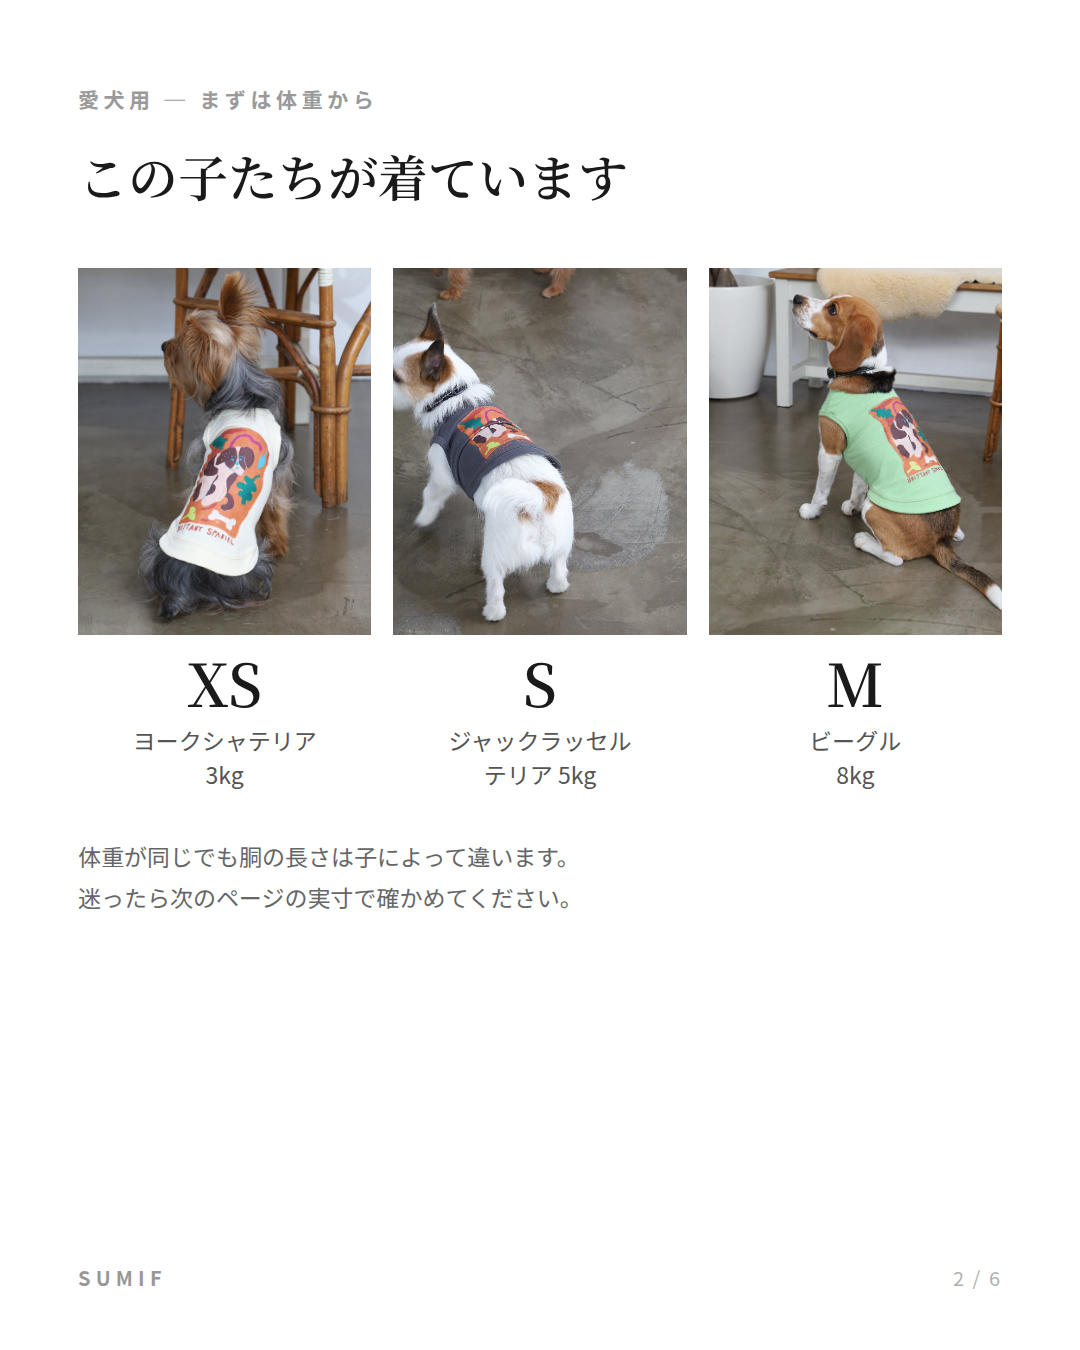
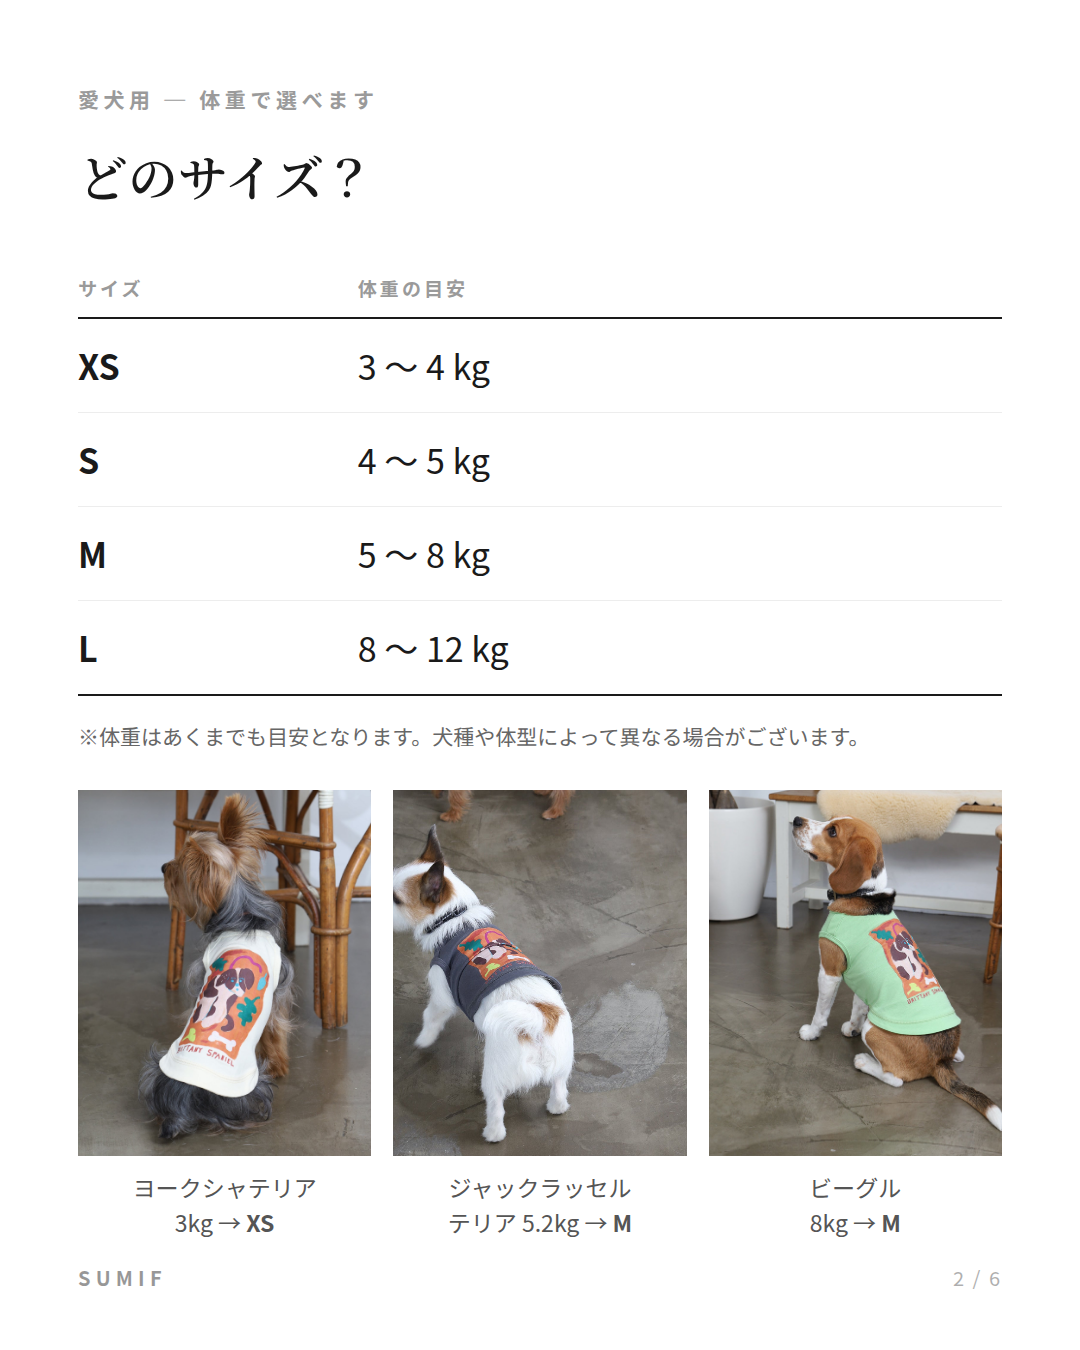
公式カタログと照合し、愛犬用9商品に公式の目安体重を反映
- カタログに Dog Wear 目安体重（XS 3-4 / S 4-5 / M 5-8 / L 8-12kg）があり、
  5kgはS/Mの境界のため「シャツの5kg→Mは誤り」という前回の推論は誤りだった。訂正
- 犬種1頭ずつの例示では S と L に案内が付かない穴があったため、
  公式レンジを9商品すべてに記載。着用例は境界値を避けた体重のみ採用
- サイズガイド画像の2枚目も公式レンジの表に差し替え
- スウェットのL胴周り48cmはカタログにも記載があり転記ミスではないことを確認
- 犬用シャツ3点の素材表記がカタログ(Cotton100%)と商品ページ(ポリエステル100%)で
  食い違う問題を発見。素材表示のため変更は保留
- 比較価格がカタログ上代とほぼ一致することを確認（二重価格の根拠）

Claude-Session: https://claude.ai/code/session_015kw7YALnaRAD4UJPNcrGdf

diff --git a/docs/data/instagram-2026-10/slides.html b/docs/data/instagram-2026-10/slides.html
@@ -38,17 +38,26 @@
 </div>
 
 <div class="s" id="s2">
-  <div class="kicker">愛犬用 ─ まずは体重から</div>
-  <h2>この子たちが着ています</h2>
-  <div class="row" style="margin-top:46px">
+  <div class="kicker">愛犬用 ─ 体重で選べます</div>
+  <h2>どのサイズ？</h2>
+  <table style="font-size:34px;margin-top:30px">
+    <thead><tr><th>サイズ</th><th>体重の目安</th></tr></thead>
+    <tbody>
+      <tr><td>XS</td><td>3 〜 4 kg</td></tr>
+      <tr><td>S</td><td>4 〜 5 kg</td></tr>
+      <tr><td>M</td><td>5 〜 8 kg</td></tr>
+      <tr><td>L</td><td>8 〜 12 kg</td></tr>
+    </tbody>
+  </table>
+  <p class="note" style="font-size:21px;margin-top:22px">※体重はあくまでも目安となります。犬種や体型によって異なる場合がございます。</p>
+  <div class="row" style="margin-top:34px">
     <div class="card"><img src="dog_xs.jpg" alt="">
-      <div class="sz">XS</div><div class="wt">ヨークシャテリア<br>3kg</div></div>
+      <div class="wt" style="margin-top:14px">ヨークシャテリア<br>3kg → <b>XS</b></div></div>
     <div class="card"><img src="dog_s.jpg" alt="">
-      <div class="sz">S</div><div class="wt">ジャックラッセル<br>テリア 5kg</div></div>
+      <div class="wt" style="margin-top:14px">ジャックラッセル<br>テリア 5.2kg → <b>M</b></div></div>
     <div class="card"><img src="dog_m.jpg" alt="">
-      <div class="sz">M</div><div class="wt">ビーグル<br>8kg</div></div>
+      <div class="wt" style="margin-top:14px">ビーグル<br>8kg → <b>M</b></div></div>
   </div>
-  <p class="note" style="margin-top:44px">体重が同じでも胴の長さは子によって違います。<br>迷ったら次のページの実寸で確かめてください。</p>
   <div class="brand">SUMIF</div><div class="pg">2 / 6</div>
 </div>
 
@@ -62,7 +71,7 @@
     <tr><td>M</td><td>21</td><td>30</td><td>47</td></tr>
     <tr><td>L</td><td>24</td><td>35</td><td>57</td></tr>
   </tbody></table>
-  <p class="note">首の付け根のいちばん太いところ、前足の付け根から<br>しっぽの付け根まで、胴のいちばん太いところを測ります。<br><br>タンクトップは British Dogs / Brittany Spaniel / RinTinTin すべて同じ寸法です。</p>
+  <p class="note">首の付け根のいちばん太いところ、前足の付け根から<br>しっぽの付け根まで、胴のいちばん太いところを測ります。<br><br>タンクトップ4シリーズはすべて同じ寸法です。<br>シャツとスウェットは寸法が違うので、各商品ページをご覧ください。</p>
   <div class="brand">SUMIF</div><div class="pg">3 / 6</div>
 </div>
 

diff --git a/docs/dog-size-master-2026-10-03.md b/docs/dog-size-master-2026-10-03.md
@@ -1,21 +1,69 @@
-# 愛犬用 サイズ目安・寸法 一覧（2026-10-03）
+# 愛犬用 サイズ目安・寸法 一覧（2026-10-03・カタログ照合済み）
 
-愛犬用9商品すべての「体重の目安」と「寸法表」を商品ページから取り出して突き合わせたもの。
+公式カタログ2冊（`22AW` / `22SS`）と商品ページを突き合わせた結果。
 在庫は **Open Logi 倉庫のみ**。
 
-## 1. 愛犬用は3タイプしかない
+## ⚠ 先に訂正
 
-| タイプ | 商品数 | 素材 | 寸法表の項目 |
-|---|---|---|---|
-| **タンクトップ** | 4（British Dogs / Brittany Spaniel / RinTinTin / Flanders） | 綿100%（伸びる） | 首回り・着丈・胴周り |
-| **シャツ** | 3（British Dogs / Flanders / Various dogs） | ポリエステル100%＋マジックテープ（伸びない） | 首回り・着丈・胴周り |
-| **スウェット** | 2（Playing Dog / Two of a kind） | 綿100% | 着丈・胴周り（首回りなし） |
+**「シャツの 5kg → M はおそらく誤り」と報告したが、これは間違いだった。**
 
-**同じタイプの中では、寸法表は全商品まったく同一。** つまり覚えるべき表は3つだけ。
+カタログに **Dog Wear 目安体重** のページ（22AW p10）があり、サイズごとの体重レンジが
+公式に定義されていた。
 
-## 2. 寸法表（タイプ別・単位cm）
+| サイズ | 公式の目安体重 |
+|---|---|
+| XS | **3〜4 kg** |
+| S | **4〜5 kg** |
+| M | **5〜8 kg** |
+| L | **8〜12 kg** |
 
-### タンクトップ（4商品共通）
+> ※体重はあくまでも目安となります。犬種や体型によって異なる場合がございます。
+
+**5kg は S（4〜5）と M（5〜8）の境界**なので、タンクトップの「5kg→S」もシャツの「5kg→M」も
+どちらも仕様の範囲内だった。寸法表から「ずれている」と推論したのは誤りで、
+実際には体重レンジを見れば両方成立する。
+
+画像は `docs/data/catalog-2026/dogwear-weight-guide.png`。
+
+### 本当の問題はそこではなかった
+
+犬種を1頭ずつ例示する書き方では、**どの体重の子にもSとLが割り当てられない**ことがあった。
+公式の体重レンジを載せれば、この穴は構造的に消える。
+
+## 対応したこと（2026-10-03 実施）
+
+愛犬用 **9商品すべて**の説明文に、カタログの公式レンジを入れた。
+
+```
+サイズの目安（体重）
+XS 3〜4kg　／　S 4〜5kg　／　M 5〜8kg　／　L 8〜12kg
+着用例：ヨークシャテリア 3kg → XS　／　ブリュッセルグリフォン 4.8kg → S
+　　　　ジャックラッセルテリア 5.2kg → M　／　ボストンテリア 8.4kg → L
+※体重はあくまでも目安となります。犬種や体型によって異なる場合がございます。
+```
+
+着用例は**境界にかからない体重だけ**を選んである（5.0kg や 8.0kg のような境界値は使わない）。
+スウェット2点だけは XS の例を「ロングコートチワワ 3.3kg」にしてある（実際にその商品を着た写真があるため）。
+
+| 商品 | 変更前の目安 | 変更後 |
+|---|---|---|
+| British Dogs タンク | 3kg→XS / 5kg→S / 8kg→M | 公式レンジ＋着用例 |
+| Brittany Spaniel タンク | 同上 | 同上 |
+| RinTinTin タンク | 同上 | 同上 |
+| Flanders タンク | 同上 | 同上 |
+| British Dogs シャツ | 3kg→XS / 5kg→M / 8kg→M | 同上 |
+| Flanders シャツ | 3kg→XS / 5kg→M | 同上 |
+| Various dogs シャツ | 3kg→XS / 5kg→M / 8kg→M | 同上 |
+| Playing Dog スウェット | 3.3kg→XS / 5.2kg→M / 8.4kg→L | 同上 |
+| Two of a kind スウェット | 3.3kg→XS / 4.8kg→S / 5.2kg→M / 8.4kg→L | 同上 |
+
+サイズガイドの画像（投稿②）も2枚目を公式レンジの表に差し替えた。
+
+## 寸法表（カタログと商品ページは完全一致・単位cm）
+
+カタログの測り方は 22AW p10 の図に定義されている（**首回り・着丈・胴回り**）。
+
+### タンクトップ（4商品共通・Cotton100%）
 | サイズ | 首回り | 着丈 | 胴周り |
 |---|---:|---:|---:|
 | XS | 16 | 26.5 | 31 |
@@ -31,103 +79,72 @@
 | M | 25 | 32 | 47 |
 | L | 30 | 35 | 55 |
 
-### スウェット（2商品共通）
+### スウェット（2商品共通・Cotton100%・首回りの記載なし）
 | サイズ | 着丈 | 胴周り |
 |---|---:|---:|
 | XS | 27 | 25 |
 | S | 30 | 28 |
 | M | 33 | 31 |
-| L | 36 | **48** ← 不自然（下記） |
+| L | 36 | **48** |
 
-### 3タイプの胴周り比較
+## 残った確認事項
 
-| サイズ | タンク | シャツ | スウェット |
-|---|---:|---:|---:|
-| XS | 31 | 31 | 25 |
-| S | 37 | 39 | 28 |
-| M | 47 | 47 | 31 |
-| L | 57 | 55 | 48 |
+### ① スウェットのL、胴周り48cm ─ カタログにもそう書いてある
 
-- **タンクとシャツは、XSとMが完全一致**。S（+2）とL（−2）もほぼ同じ
-- **スウェットだけ桁が違う**（XS25〜M31）。M31 はタンクのXS31と同じで、
-  5.2kgの子向けとしては小さすぎる。測り方が違うか、誤記の可能性
+22AW p6（Playing Dog）と p8（Two of a kind）の両方に `36 / 48` と記載されている。
+**商品ページの転記ミスではない。** こちらの入力は正しい。
 
-## 3. 体重の目安 ─ 現状
+ただし着丈は 27→30→33→36 と3cm刻みで完全に規則的なのに、
+胴周りだけ 25→28→31→**48** と最後だけ17cm飛んでいる。
+**カタログ側の誤植の可能性は残る**（規則どおりなら34前後）。
 
-| 商品 | XS | S | M | L |
-|---|---|---|---|---|
-| British Dogs タンク | ヨークシャテリア 3kg | ジャックラッセル 5kg | ビーグル 8kg | **空欄** |
-| Brittany Spaniel タンク | 同上 | 同上 | 同上 | **空欄** |
-| RinTinTin タンク | 同上 | 同上 | 同上 | **空欄** |
-| Flanders タンク | 同上 | 同上 | 同上 | **空欄** |
-| British Dogs シャツ | ヨークシャテリア 3kg | **空欄** | ジャックラッセル 5kg ／ ビーグル 8kg | **空欄** |
-| Flanders シャツ | ヨークシャテリア 3kg | **空欄** | ジャックラッセル 5kg | **空欄** |
-| Various dogs シャツ | ヨークシャテリア 3kg | **空欄** | ジャックラッセル 5kg ／ ビーグル 8kg | **空欄** |
-| Playing Dog スウェット | ロングコートチワワ 3.3kg | **空欄** | ジャックラッセル 5.2kg | ボストンテリア 8.4kg |
-| Two of a kind スウェット | ロングコートチワワ 3.3kg | ブリュッセルグリフォン 4.8kg | ジャックラッセル 5.2kg | ボストンテリア 8.4kg |
+Two of a kind の L は **在庫8点**（ホワイト3・ブラック5）あるので、
+現物を1枚測れば確定する。測るまでは数字を動かさない。
 
-## 4. 直すべきところ
+### ② 犬用シャツ3点の素材表記がカタログと食い違っている ★新規
 
-### ① シャツ3点「5kg → M」はおそらく誤り（→ S）
-
-タンクとシャツは **XS(31)とM(47)の胴周りが完全一致**しているのに、
-**Sの段だけ割り当てが1つずれている**。XSとMが一致するならSも一致するはず。
-
-「伸びない素材だから1サイズ上げている」という説明は成り立たない。
-それなら3kgの子も XS→S に上がるはずだが、3kgはXSのまま据え置かれている。
-**上がっているのがSの段だけ**なので、転記のずれと見るのが自然。
-
-→ **3商品とも 5kg → S に直す。**
-
-### ② Playing Dog スウェットに S の目安がない
-
-Two of a kind と**寸法表は完全同一**なのに、Playing Dog だけ S の行が抜けている。
-
-→ Two of a kind と同じ **4.8kg → S** を入れる（同じ寸法なので整合する）。
-
-### ③ スウェットの L、胴周り48cm
-
-XS25 → S28 → M31 と3cm刻みで来て、Lだけ48。17cmの飛びは不自然。
-**誤記の疑いがあるので、現物を測って確認してほしい。**
-3cm刻みなら34前後になるはず。
-
-### ④ 全タイプで L の目安が空欄
-
-タンクトップのL（胴周り57cm）は **在庫28点**あるのに、
-「何kgの子ならL」という案内がどこにもない。大きめの子の飼い主が選べない。
-
-## 5. 埋める優先順位（在庫順）
-
-| 埋める箇所 | 対象在庫 | なぜ優先か |
-|---|---:|---|
-| **シャツの S** | **30点** | British Dogs シャツはS8点が主力（M・Lは0）。いまSを誰にも勧めていない |
-| **スウェットの S** | **32点** | Playing Dog だけ案内がない |
-| **タンクトップの L** | **28点** | 大きめの子向けの案内が存在しない |
-| シャツの L | 0点 | 在庫切れなので不要 |
-
-## 6. 目安に使える犬 ─ 着用写真がある子
-
-**実際にその商品を着た写真がある犬種**なら、目安に書いても裏が取れる。
-
-| 犬種 | 写真がある商品 | 現在の目安での体重 |
+| 商品 | カタログの表記 | 商品ページの表記 |
 |---|---|---|
-| ヨークシャーテリア | タンク（BS・Flanders・RinTinTin）／シャツ（British Dogs・Flanders） | 3kg |
-| ジャックラッセルテリア | タンク（BS・British Dogs・Flanders）／シャツ（British Dogs） | 5kg・5.2kg |
-| ビーグル | タンク（BS・British Dogs・Flanders・RinTinTin）／シャツ（British Dogs） | 8kg |
-| ロングコートチワワ | スウェット（Two of a kind） | 3.3kg |
-| ボストンテリア | スウェット（Playing Dog・Two of a kind） | 8.4kg |
-| プードル | スウェット（Two of a kind） | **未記載** |
-| ブリュッセルグリフォン | 写真は未確認 | 4.8kg |
+| British Dogs Shirts For Dog | **Cotton100%**（22SS p4） | ポリエステル100% |
+| Flanders Shirts For Dog | **Cotton100%**（22SS p7） | ポリエステル100% |
+| Various dogs Shirts For Dog | **Cotton100%**（22AW p4） | ポリエステル100% |
 
-**プードルは写真があるのに目安に出ていない。**体重が分かれば追加できる。
-L の目安を足すなら、10kg前後の中型犬（柴犬・コーギーなど）の実測が要る。
+一方、**大人・子どものシャツはカタログも PE100%** で一致している
+（British Dogs Long Sleeve Shirts / Flanders Short Sleeve Shirts / Various dogs Shirts）。
+**犬用シャツだけが食い違う。**大人用の表記をコピーした可能性がある。
 
-## 7. 決めてほしいこと
+商品説明の本文にも「肌触りの良いポリエステル素材で着心地抜群。お洗濯もできシワにもなりにくく」
+と書いてあり、素材が綿なら**この一文ごと事実と違う**ことになる。
 
-1. シャツの 5kg → S に直してよいか（現物でジャックラッセルサイズの子にSを着せて確認できるとなお良い）
-2. Playing Dog に 4.8kg → S を足してよいか
-3. スウェットの L 胴周り48cm は正しいか（実測）
-4. L の目安に使える子（体重と犬種）
-5. プードルの体重
+素材表示は洗濯・アレルギーに関わるので、**こちらの判断では変更していない。**
+どちらが正しいか確認がほしい。タンクトップとスウェットは両方 Cotton100% で一致している。
 
-1〜2が決まれば、該当する商品の説明文をまとめて直す。
+## おまけ ─ 二重価格表示の根拠が取れた
+
+以前「取り消し線の定価に根拠があるか確認できない」と書いた点について、
+**カタログの上代とほぼ一致している**ことが確認できた。
+
+| 商品 | カタログ上代 | 現在の比較価格 |
+|---|---:|---:|
+| British Dogs Long Sleeve Tee | ¥7,500 | ¥7,500 ✓ |
+| British Dogs Tank Top For Dog | ¥5,500 | ¥5,500 ✓ |
+| British Dogs Long Sleeve Shirts | ¥11,000 | ¥11,000 ✓ |
+| British Dogs Shirts For Dog | ¥7,500 | ¥7,500 ✓ |
+| Flanders Short Sleeve Shirts | ¥10,000 | ¥10,000 ✓ |
+| RinTinTin Short Sleeve Tee | ¥6,500 | ¥6,500 ✓ |
+| Brittany Spaniel Short Sleeve Tee | ¥6,500 | ¥6,500 ✓ |
+| Playing Dog Sweat For Dog | ¥5,500 | ¥5,500 ✓ |
+| Various dogs Shirts（大人） | ¥12,000 | ¥12,100 △ |
+| RinTinTin Tee For Kids | ¥4,500 | **¥4,000** △ |
+| Brittany Spaniel Tee For Kids | ¥4,500 | **¥4,000** △ |
+
+- Various dogs 大人シャツの ¥12,100 は、カタログの本体価格 ¥11,000 × 1.1 ＝ ¥12,100 で計算が合う。
+  カタログの ￥12,000 のほうが端数処理の表記ゆれと思われる
+- キッズ半袖Tシャツ2点は、**カタログより低い ¥4,000 を定価として表示**している。
+  高く見せているわけではないので表示上の問題はない
+
+## 見つけたもの ─ 2021年ルックブックは 22SS カタログの表紙
+
+`22SS` の1ページ目が、`brand-context.md` 4.5節にある2021年ルックブックの
+ヒーローカット（父・息子・母・娘・愛犬が全員 British Dogs シャツ）だった。
+Google Drive を探さなくても、このPDFから高解像度で取り出せる。
